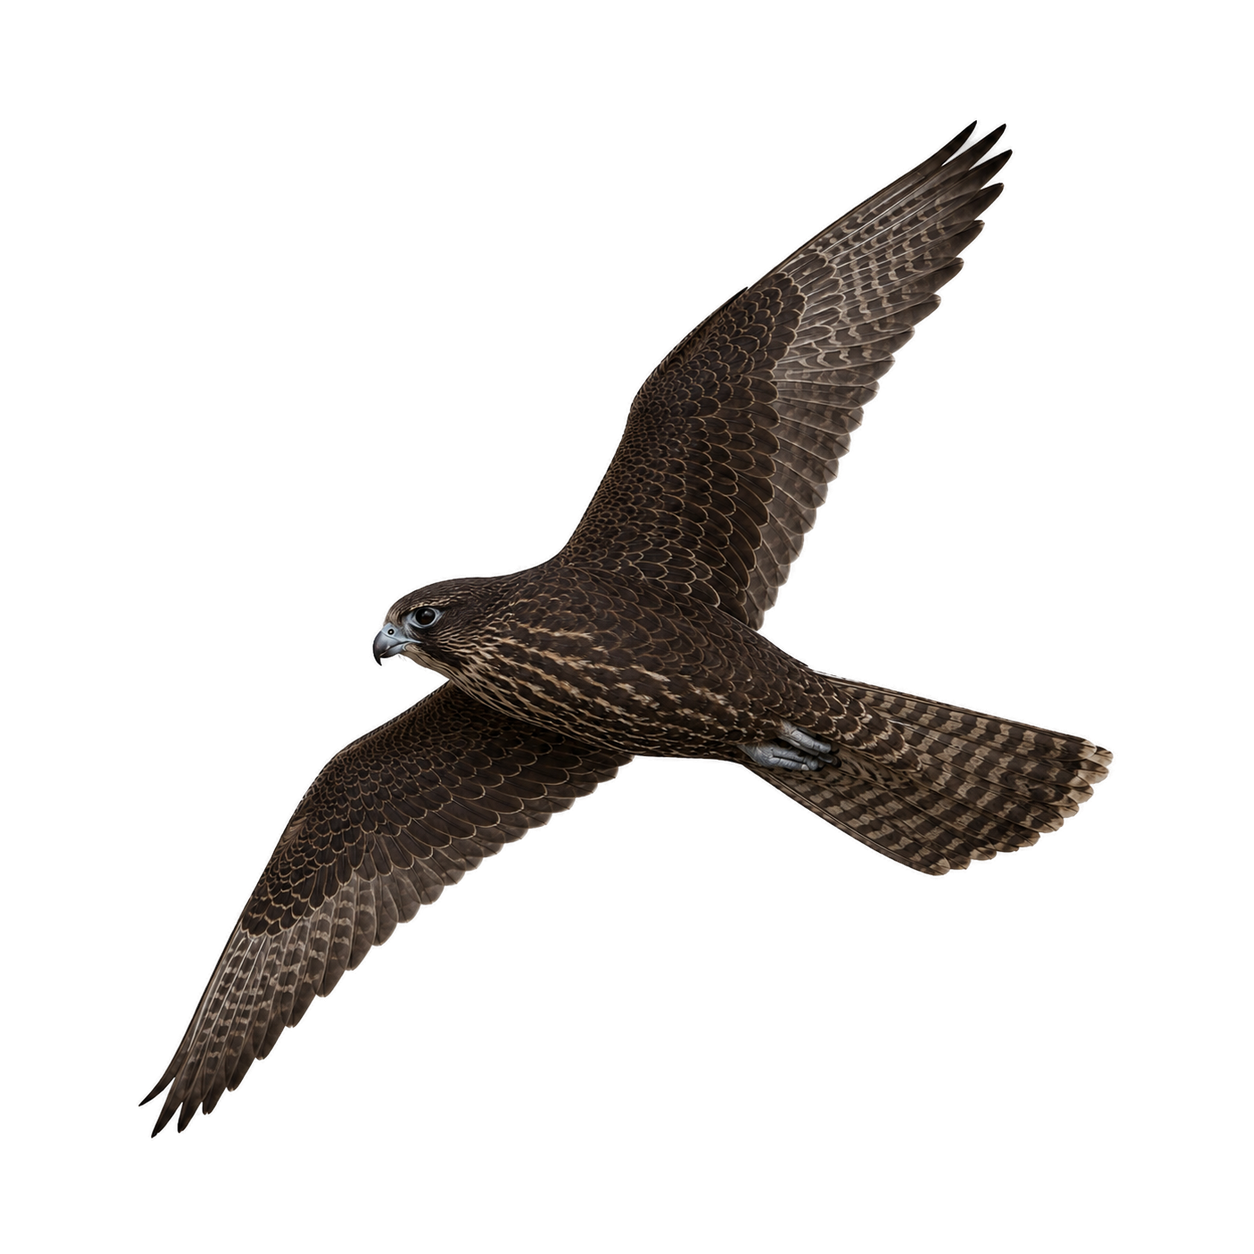
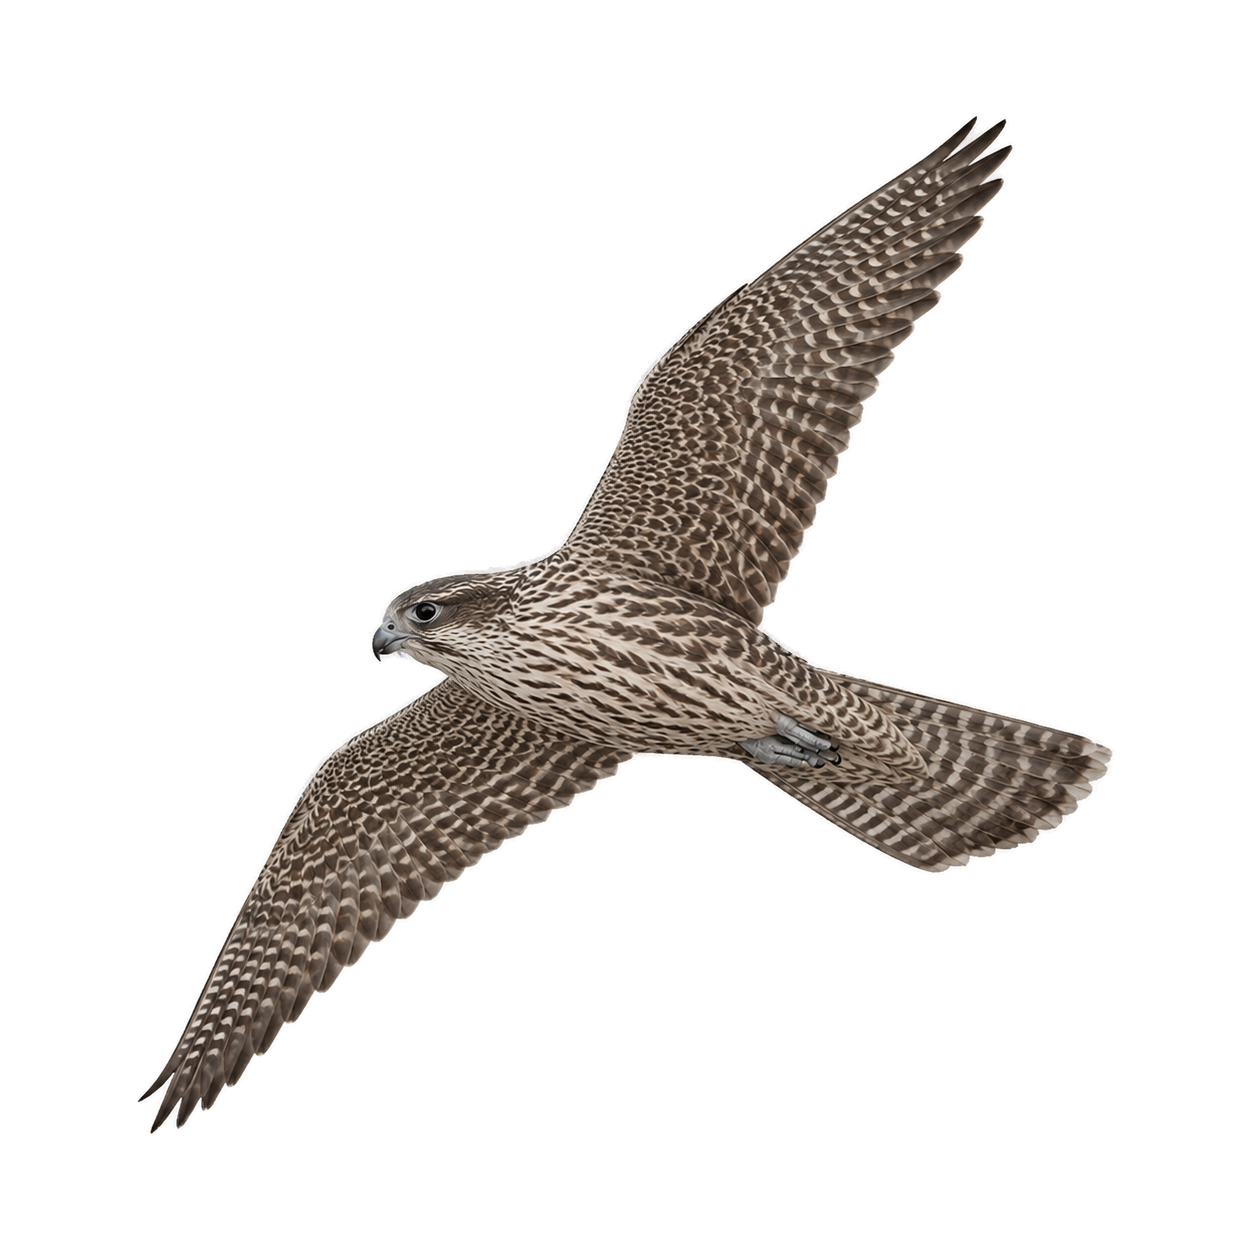
fix(images): soften gyrfalcon morph contrast and preserve framing

Changed region(s): [[0.0933, 0.0933, 0.9019, 0.9019]]

diff --git a/lib/morphs.ts b/lib/morphs.ts
@@ -153,8 +153,8 @@ export const birdMorphs: Record<MorphSpeciesId, BirdMorphConfig> = {
           ['Blaugraue Füße', '#849199'],
         ],
         images: {
-          male: '/birds/morph-gerfalke-weiss-male.png?v=6d0dc31fd0f5',
-          juvenile: '/birds/morph-gerfalke-weiss-juvenile.png?v=78d0a89a4d06',
+          male: '/birds/morph-gerfalke-weiss-male.png?v=ecfc8cb16b28',
+          juvenile: '/birds/morph-gerfalke-weiss-juvenile.png?v=3e506aebe4f6',
         },
       },
       {
@@ -193,8 +193,8 @@ export const birdMorphs: Record<MorphSpeciesId, BirdMorphConfig> = {
           ['Graubraune Schwingen', '#777168'],
         ],
         images: {
-          male: '/birds/morph-gerfalke-dunkel-male.png?v=7685df3aefc5',
-          juvenile: '/birds/morph-gerfalke-dunkel-juvenile.png?v=ec3dc9ac897b',
+          male: '/birds/morph-gerfalke-dunkel-male.png?v=bab2a4ad27e7',
+          juvenile: '/birds/morph-gerfalke-dunkel-juvenile.png?v=3cf027d7a27f',
         },
       },
     ],

diff --git a/AGENTS.md b/AGENTS.md
@@ -8,9 +8,9 @@
 
 ## Einheitliche Vogelbilder
 
-- Jungtierbilder immer aus dem aktuell eingebundenen adulten Bild derselben Art ableiten. Die aktuelle Vorlage anhand der Bildzuordnung im Projekt ermitteln.
-- Das adulte Bild ist die Referenz und Bearbeitungsgrundlage, auch wenn ein vorhandenes Jungtierbild ersetzt werden soll. Nicht das alte Jungtierbild als Vorlage verwenden.
-- Pose, Flugrichtung, Perspektive, Silhouette, Flügelstellung, Schwanzhaltung, Bildausschnitt und Darstellungsstil des adulten Bildes beibehalten. Nur altersbedingte Merkmale wie Gefiederfarbe und Zeichnung anpassen.
+- Die aktuell eingebundene normale adulte Morphe derselben Art ist immer die gemeinsame Ausgangsbasis für alle anderen Morphen und Jungvogelbilder. Die aktuelle Vorlage anhand der Bildzuordnung im Projekt ermitteln.
+- Alle Varianten direkt aus dieser normalen adulten Morphe ableiten, auch wenn ein vorhandenes Morphen- oder Jungvogelbild ersetzt wird. Weder eine andere Morphe noch ein altes Jungvogelbild als Bearbeitungsgrundlage verwenden.
+- Pose, Flugrichtung, Perspektive, Silhouette, Flügelstellung, Schwanzhaltung, Bildausschnitt, Bildgröße, Position auf der Bildfläche und Darstellungsstil der normalen adulten Morphe beibehalten. Nur morphen- bzw. altersbedingte Merkmale wie Gefiederfarbe und Zeichnung anpassen, damit das Bild beim Wechsel der Variante nicht springt.
 - Den transparenten Hintergrund erhalten und den Vogel vollständig im Bild zeigen.
 - Diese Vorgabe gilt dauerhaft für alle Arten, sofern der Nutzer für eine konkrete Bearbeitung nicht ausdrücklich etwas anderes verlangt.
 
